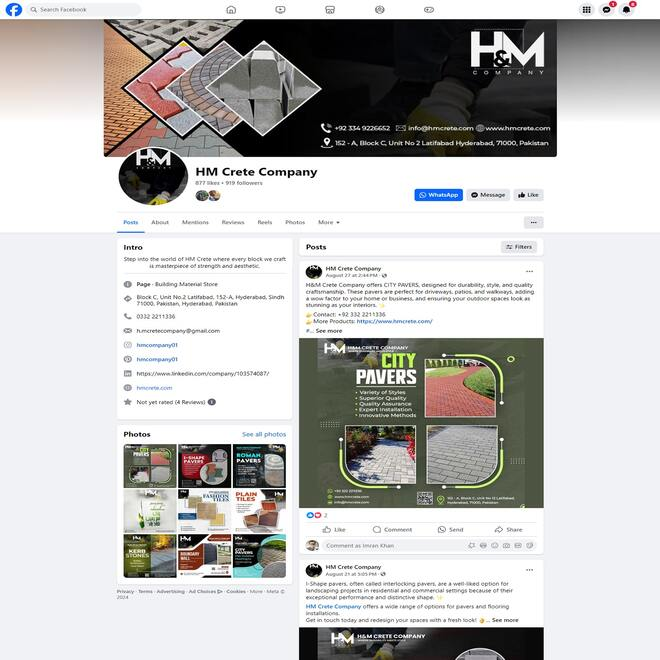
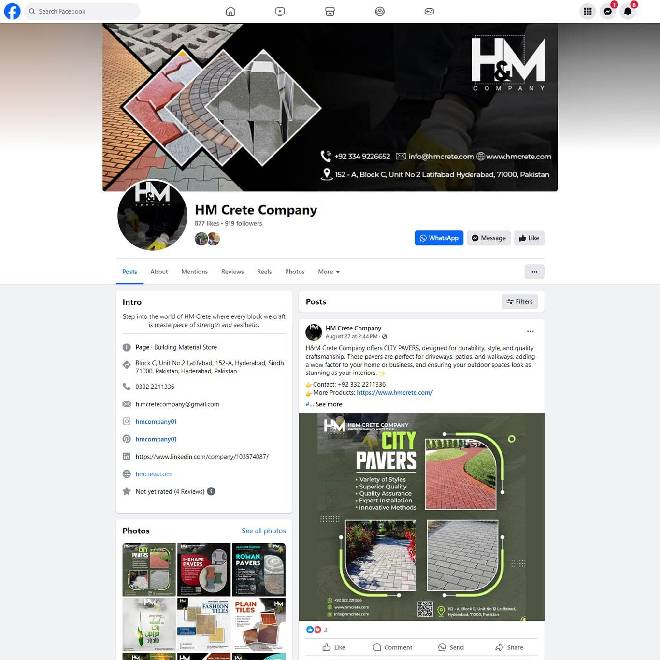
Social Media Advertising page images resized properly

diff --git a/social/maaz-properties-social.html b/social/maaz-properties-social.html
@@ -289,7 +289,7 @@
                                        fill="black" />
                                  </mask>
                                  <image width="100%" height="100%" mask="url(#imgMask1)"
-                                    href="../img/Portfolio-Page-img/Mintsea-social-min.jpg" />
+                                    href="../img/Portfolio-Page-img/Mintsea-social-min-resized.jpg" />
                               </svg>
                            </i>
                         </figure>

diff --git a/social/zala-social.html b/social/zala-social.html
@@ -288,7 +288,7 @@
                                        fill="black" />
                                  </mask>
                                  <image width="100%" height="100%" mask="url(#imgMask1)"
-                                    href="../img/Portfolio-Page-img/Mintsea-social-min.jpg" />
+                                    href="../img/Portfolio-Page-img/Mintsea-social-min-resized.jpg" />
                               </svg>
                            </i>
                         </figure>

diff --git a/social/hm-crete-social.html b/social/hm-crete-social.html
@@ -289,7 +289,7 @@
                                        fill="black" />
                                  </mask>
                                  <image width="100%" height="100%" mask="url(#imgMask1)"
-                                    href="../img/Portfolio-Page-img/Maaz-Soical-Min.jpg" />
+                                    href="../img/Portfolio-Page-img/Maaz-Soical-Min-resized.jpg" />
                               </svg>
                            </i>
                         </figure>

diff --git a/social/mint-sea-social.html b/social/mint-sea-social.html
@@ -289,7 +289,7 @@
                                        fill="black" />
                                  </mask>
                                  <image width="100%" height="100%" mask="url(#imgMask1)"
-                                    href="../img/Portfolio-Page-img/HM-social-min.jpg" />
+                                    href="../img/Portfolio-Page-img/HM-social-min-resized.jpg" />
                               </svg>
                            </i>
                         </figure>
